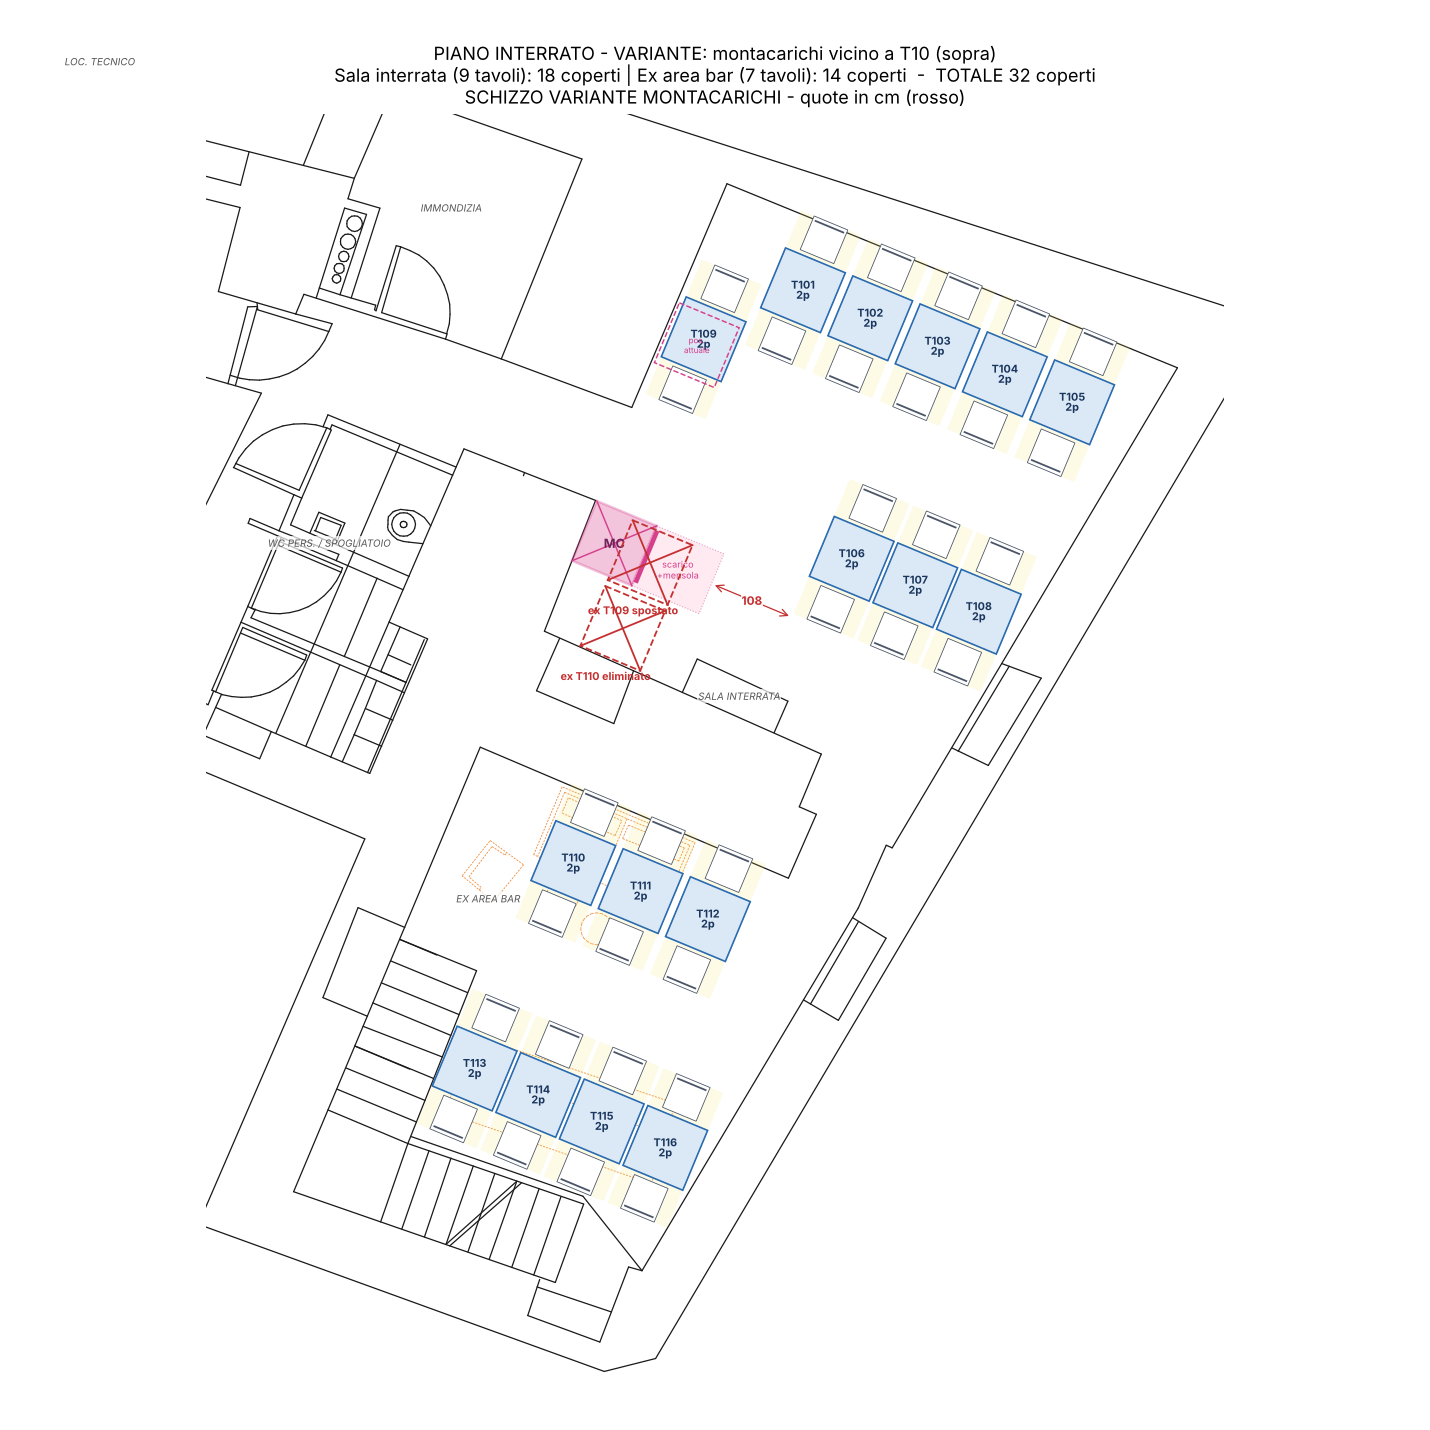
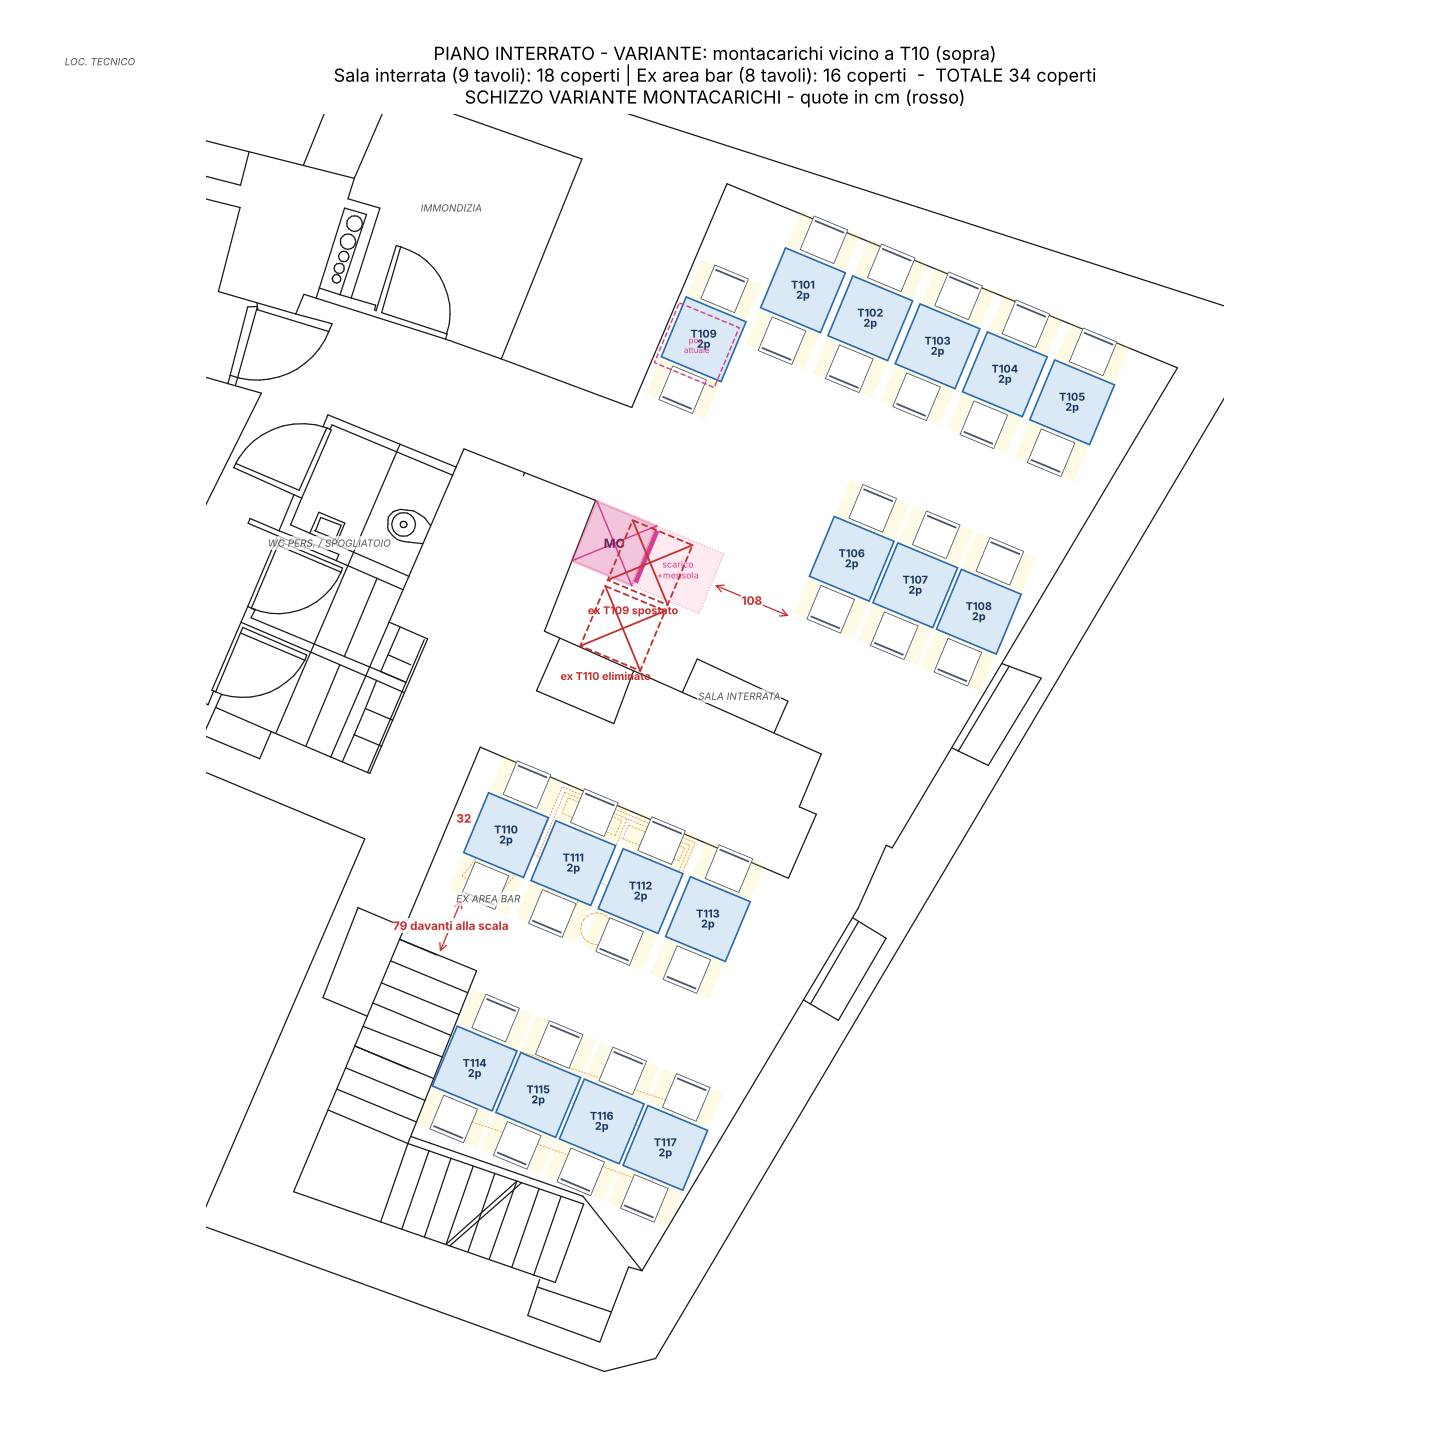
Schizzo variante MC: tavolo aggiunto davanti alla scala nell'ex bar
Claude-Session: https://claude.ai/code/session_01DzDrm9YL49zt6S6Nfpk9Ja

diff --git a/OUTPUT_RISTORANTE/scripts/s11b_schizzo_variante_mc.py b/OUTPUT_RISTORANTE/scripts/s11b_schizzo_variante_mc.py
@@ -69,9 +69,12 @@ sheet('terra', PT, [(t10, 'T10 tolto')], [
 # ---- S1: T109 spostato nell'angolo NW (dove era il montacarichi), T110 eliminato (richiesta cliente)
 t109, t110 = S.s_ovest
 t109n = dict(t109, x=2080, y=110, sides='NS')
+extra = dict(x=2090, y=769, nx=1, ny=1, sides='NS', seats=2)   # tavolo aggiunto a ovest di T110, davanti alla scala
 S1 = {'Sala interrata (9 tavoli)': S.s_nord + S.s_fac + [t109n],
-      'Ex area bar (7 tavoli)': S.b_nord + S.b_sud}
+      'Ex area bar (8 tavoli)': [extra] + S.b_nord + S.b_sud}
 sheet('int', S1, [(t109, 'ex T109 spostato'), (t110, 'ex T110 eliminato')], [
     ((2245, 425), (2353, 425), '108'),
+    ((2110, 899), (2110, 978), '79 davanti alla scala'),
+    ((2058, 810), (2090, 810), '32'),
 ], "PIANO INTERRATO - VARIANTE: montacarichi vicino a T10 (sopra)", 'schizzo_S1_variante_MC.png')
 print('ok')
